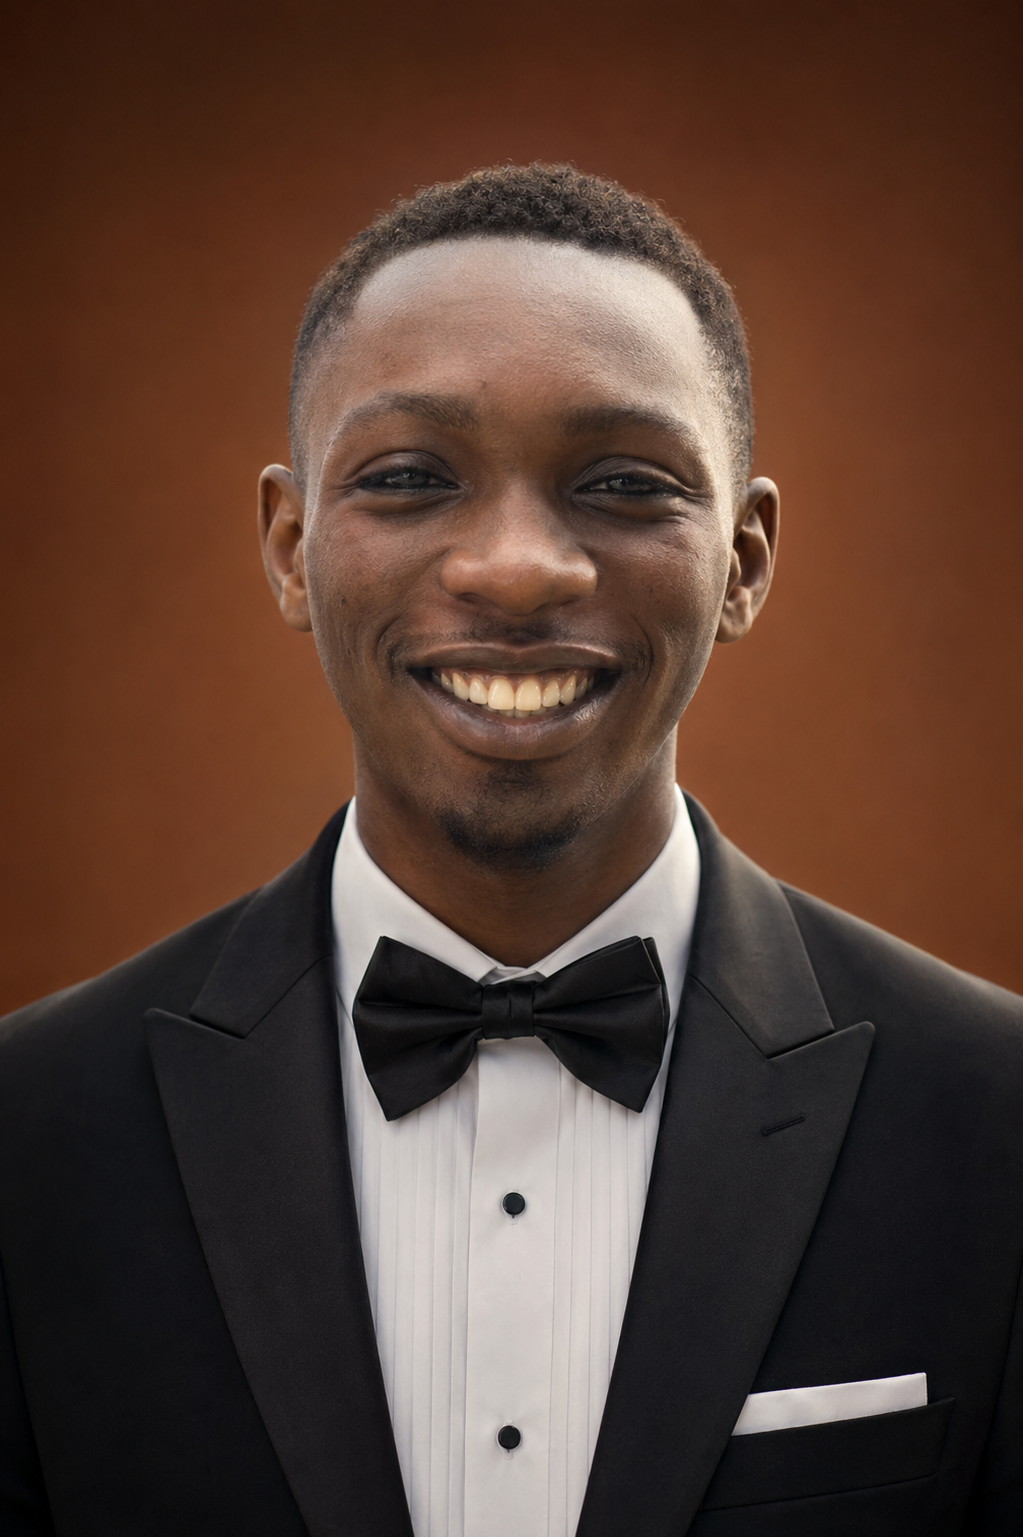
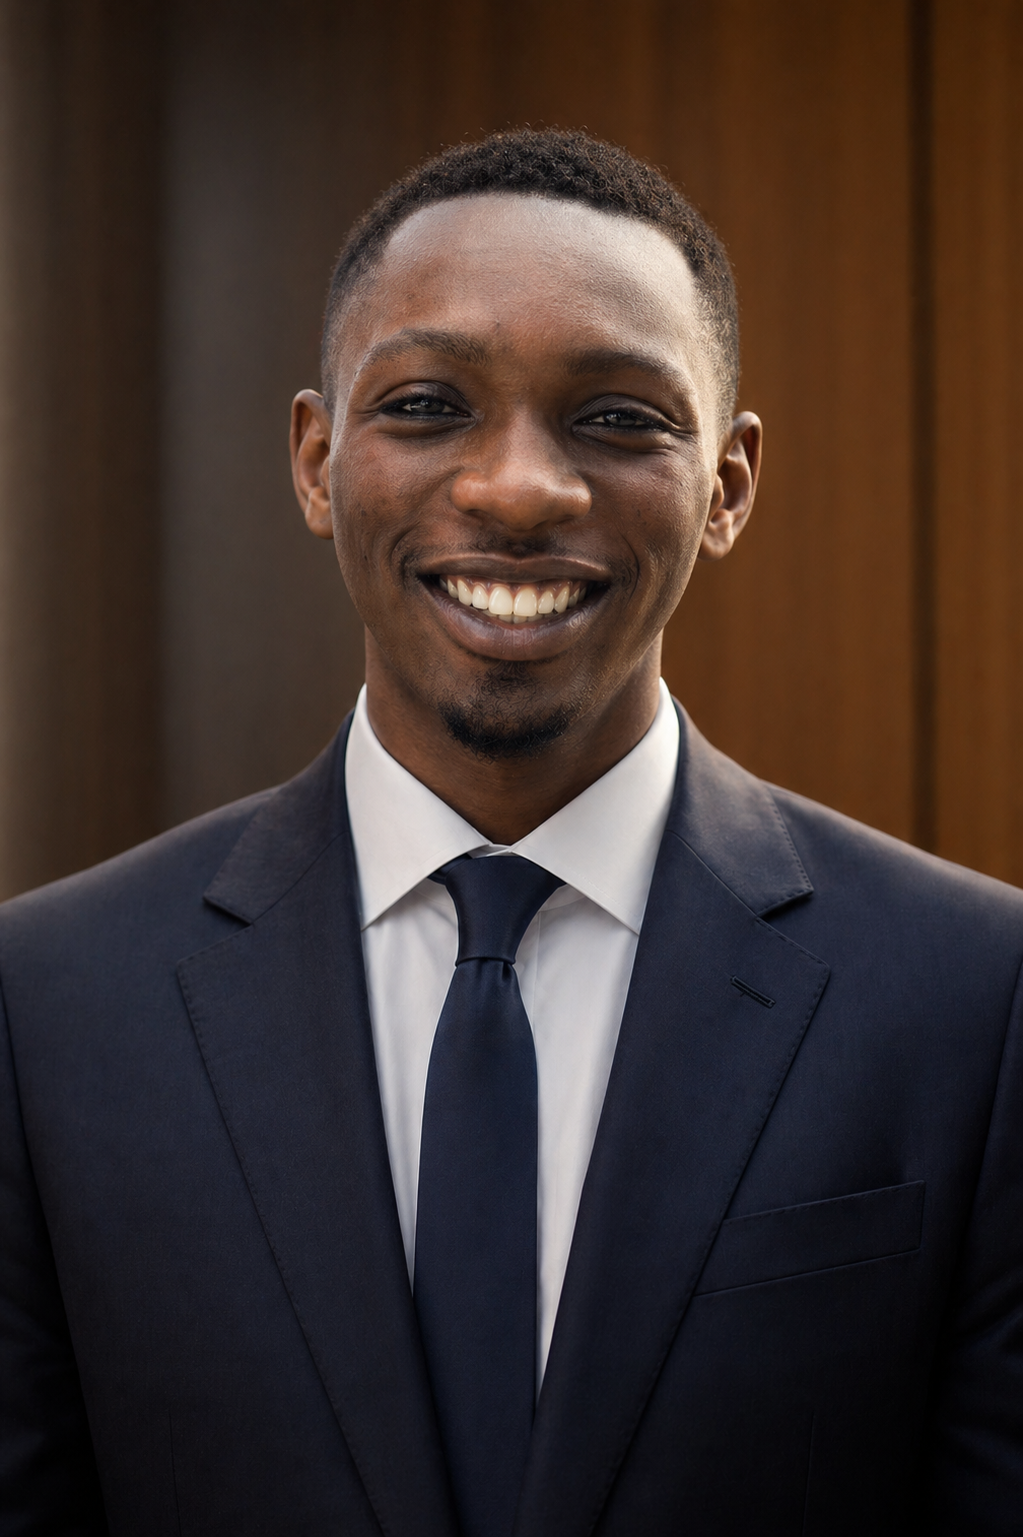
Updated code and content

diff --git a/components/ExperienceSection.tsx b/components/ExperienceSection.tsx
@@ -4,8 +4,8 @@ import { Experience } from '../types';
 
 const experienceData: Experience[] = [
     {
-        role: 'IT Specialist / Data Analyst',
-        company: 'Good-faith C&C SACCO',
+        role: 'IT Specialist & Data Analyst',
+        company: 'Stelar Tech International',
         period: 'Jan 2022 - Present',
         description: [
             'Architected a data-driven risk management framework, resulting in a 25% year-over-year reduction in security incidents.',
@@ -15,23 +15,13 @@ const experienceData: Experience[] = [
         ]
     },
     {
-        role: 'Lead Data Consultant (Project-based)',
+        role: 'Data Analyst',
         company: 'Confidential Law Firm',
         period: '2021 - 2022',
         description: [
             'Improved decision-making efficiency by 30% through the development of interactive data dashboards for legal case trends.',
             'Streamlined resource allocation by identifying bottleneck case types using historical performance data.',
             'Presented complex statistical findings to senior partners, translating raw data into actionable business intelligence.',
-        ]
-    },
-    {
-        role: 'Data Analyst',
-        company: 'Uganda Bureau of Statistics',
-        period: 'Jun 2021 - Dec 2021',
-        description: [
-            'Executed statistical validation on large-scale census datasets, ensuring 98%+ data integrity for national reporting.',
-            'Developed automated visualization scripts in R that reduced report generation cycles from weeks to days.',
-            'Analyzed demographic trends to support national policy planning and resource distribution.',
         ]
     }
 ];

diff --git a/components/EducationSection.tsx b/components/EducationSection.tsx
@@ -6,12 +6,7 @@ const educationData: EducationItem[] = [
     {
         degree: 'Bachelor of Statistics',
         institution: 'Makerere University',
-        period: '2017 - 2021'
-    },
-    {
-        degree: 'Certified in Cybersecurity (CC)',
-        institution: '(ISC)² - (In Progress)',
-        period: 'Expected 2024'
+        period: 'Graduated 2025'
     },
      {
         degree: 'Google Data Analytics Professional Certificate',